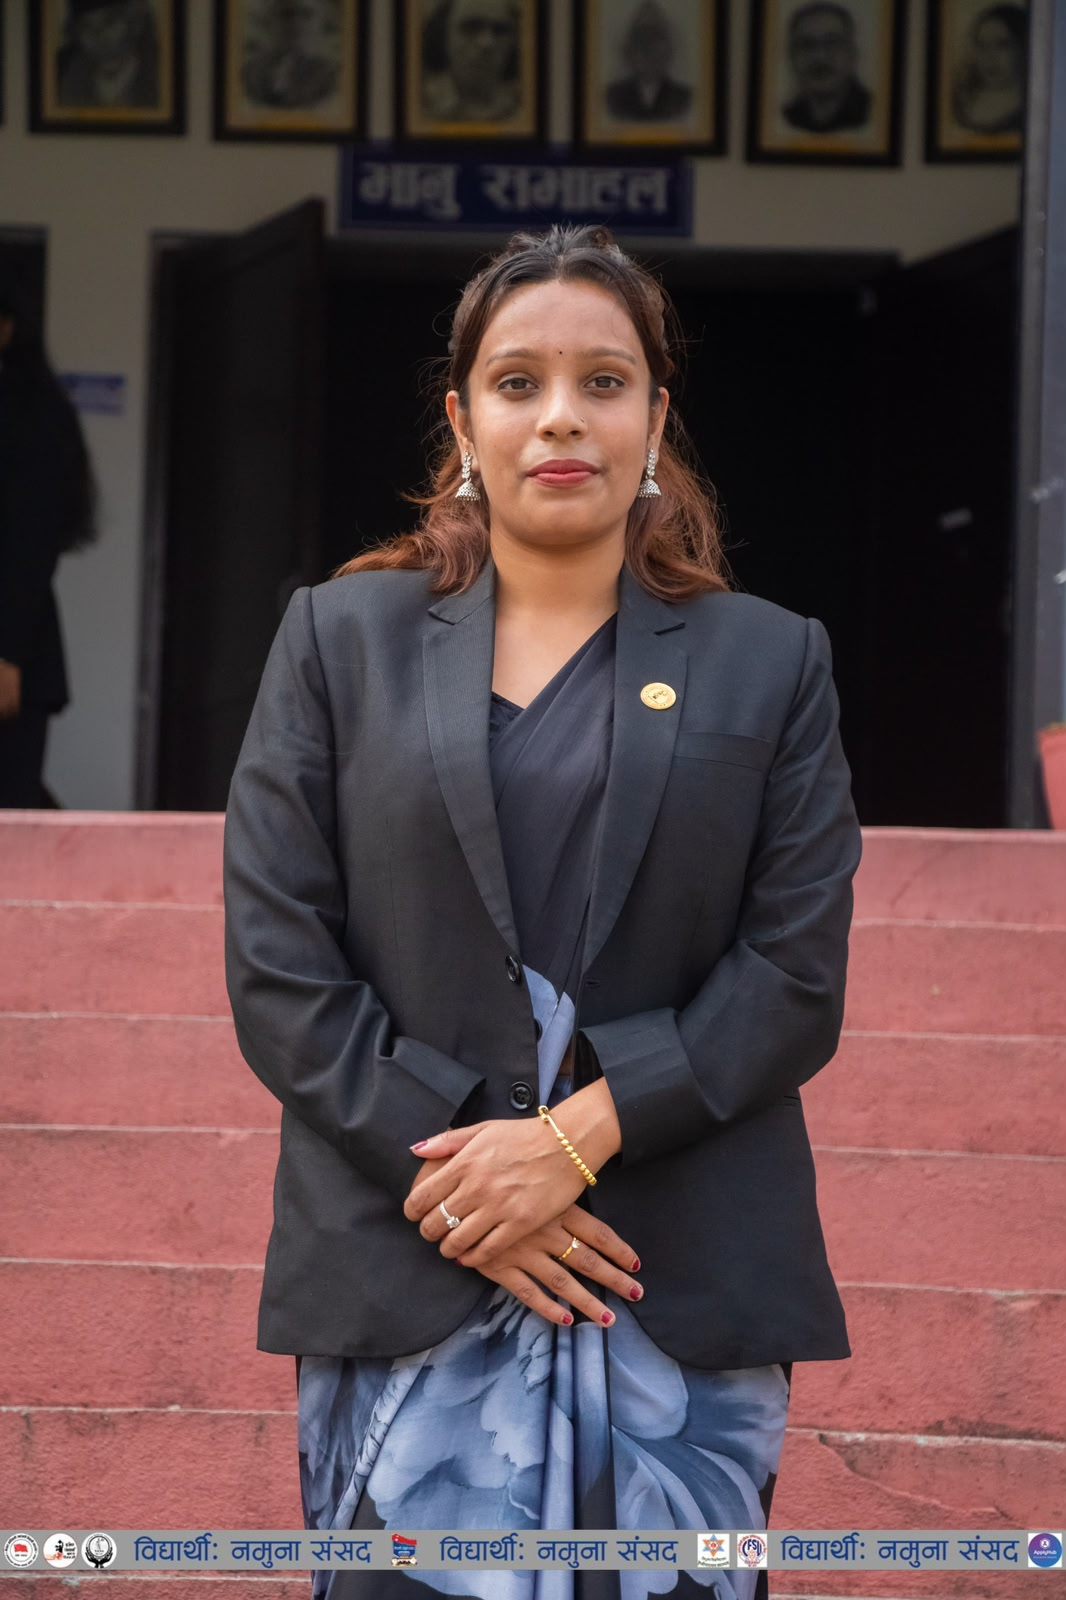
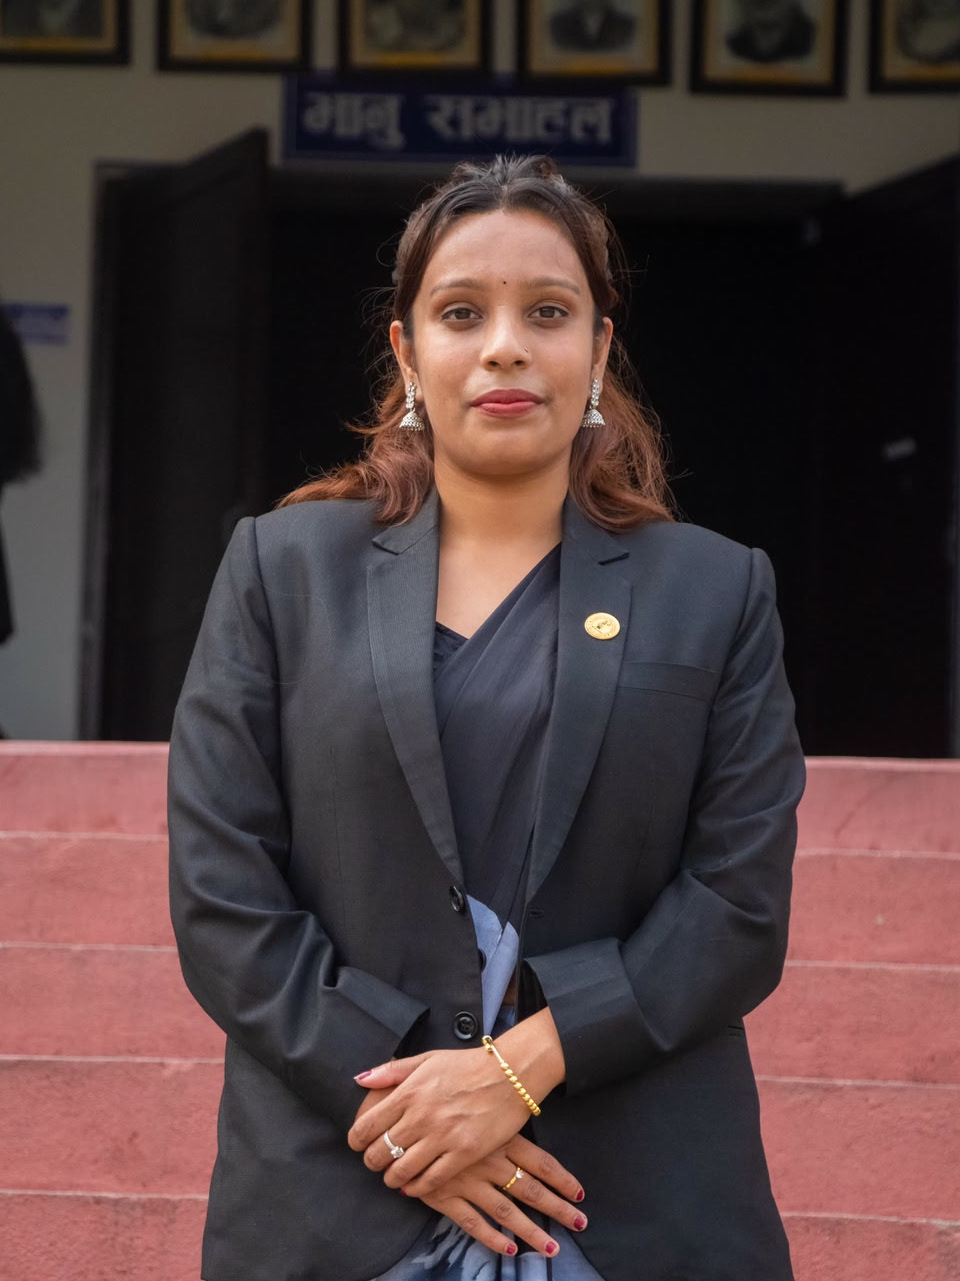
chore: update TeLSA website with official emails, committee names, and hierarchy

diff --git a/lib/data/committee.ts b/lib/data/committee.ts
@@ -16,11 +16,11 @@ export const committeeMembers: CommitteeMember[] = [
   },
   { name: "Ayan Yadav", position: "Vice President", roleType: "core", image: "/images/committee/vice_president.jpeg" },
   { name: "Amar Yadav", position: "Secretary", roleType: "core", image: "/images/committee/secretary.jpeg" },
-  { name: "Sachin Kumar Sah", position: "Joint Secretary", roleType: "core", image: "/images/committee/joint_secretary.jpeg" },
   { name: "Shova Yadav", position: "Treasurer", roleType: "core", image: "/images/committee/treasurer.jpeg" },
-  { name: "Nitesh Kumar Yadav", position: "Executive Member", roleType: "executive" },
+  { name: "Sachin Kumar Sah", position: "Joint Secretary", roleType: "core", image: "/images/committee/joint_secretary.jpeg" },
+  { name: "Nitesh Kr. Sah", position: "Executive Member", roleType: "executive", image: "/images/committee/nitesh.jpeg" },
   { name: "Richa Patel", position: "Executive Member", roleType: "executive", image: "/images/committee/richa.jpeg" },
-  { name: "Madhumitta Yadav", position: "Executive Member", roleType: "executive" },
+  { name: "Madhumitta Yadav", position: "Executive Member", roleType: "executive", image: "/images/committee/madhumitta.jpeg" },
   { name: "Surendra Kumar Paswan", position: "Executive Member", roleType: "executive", image: "/images/committee/surendra.jpeg" },
 ];
 

diff --git a/components/layout/public-footer.tsx b/components/layout/public-footer.tsx
@@ -49,7 +49,7 @@ export default function PublicFooter() {
               <p className="mt-4 text-xs font-sans tracking-widest uppercase text-muted-foreground">Direct Line</p>
               <p><a href="tel:9768028358" className="hover:text-white transition-colors font-sans">9768028358</a></p>
               <p className="mt-2 text-xs font-sans tracking-widest uppercase text-muted-foreground">Official Correspondence</p>
-              <p><a href="mailto:[email redacted]" className="hover:text-white transition-colors font-sans break-all">[email redacted]</a></p>
+              <p><a href="mailto:[email redacted]" className="hover:text-white transition-colors font-sans break-all">[email redacted]</a></p>
             </address>
           </div>
         </div>

diff --git a/README.md b/README.md
@@ -156,6 +156,6 @@ This project is licensed under the MIT License - see the [LICENSE](LICENSE) file
 ## 📬 Maintainers
 
 - **Terai Law Students Association (TeLSA)** – Executive Committee
-- **Technical Contact:** [[email redacted]](mailto:[email redacted])
+- **Technical Contact:** [[email redacted]](mailto:[email redacted])
 
 For major feature requests or organizational inquiries, please open an issue or contact the administration directly.